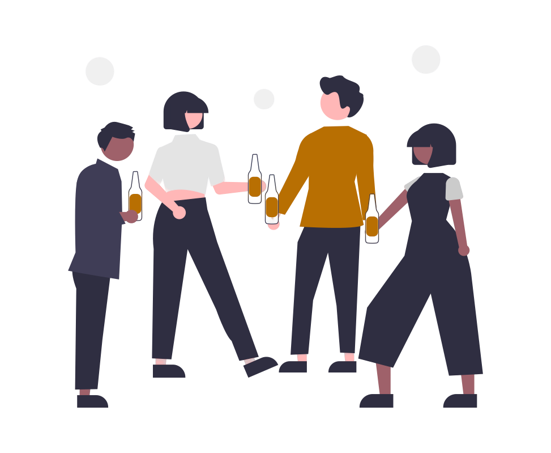
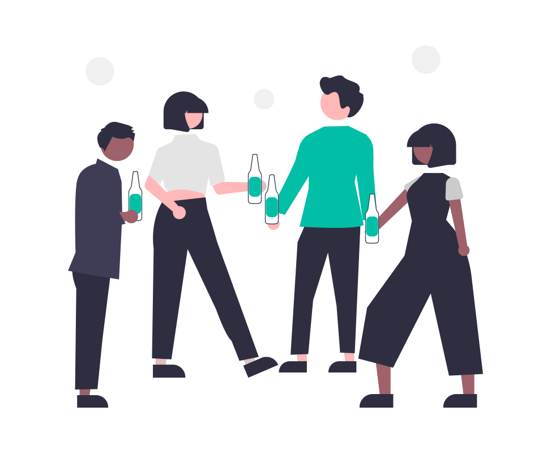
Modify LoginPage and add SignUp Page

Changed region(s): [[0.4319, 0.2781, 0.7096, 0.5254], [0.216, 0.4327, 0.2777, 0.4636]]

diff --git a/lib/SignUp Page/signup_page.dart b/lib/SignUp Page/signup_page.dart
@@ -1,14 +1,14 @@
 import 'package:flutter/material.dart';
 import 'package:playstation/Materials/material_app.dart';
 
-class LogInPage extends StatelessWidget {
-  const LogInPage({Key? key}) : super(key: key);
+class SignUpPage extends StatelessWidget {
+  const SignUpPage({Key? key}) : super(key: key);
 
   @override
   Widget build(BuildContext context) {
     return Scaffold(
       appBar: PreferredSize(
-        preferredSize: const Size.fromHeight(200),
+        preferredSize: const Size.fromHeight(150),
         child: AppBar(
           backgroundColor: Colors.transparent,
           shadowColor: Colors.transparent,
@@ -19,8 +19,8 @@ class LogInPage extends StatelessWidget {
               children: [
                 Image.asset(
                   "assets/logo/logo.png",
-                  width: 150,
-                  height: 150,
+                  width: 100,
+                  height: 100,
                 ),
                 Text(
                   "Kazablanka PS",
@@ -44,7 +44,8 @@ class LogInPage extends StatelessWidget {
         ),
       ),
       body: Container(
-        margin: EdgeInsets.symmetric(horizontal: 15),
+        margin: EdgeInsets.symmetric(horizontal: 7.5),
+        padding: EdgeInsets.symmetric(horizontal: 15),
         child: SingleChildScrollView(
           child: Column(
             mainAxisAlignment: MainAxisAlignment.center,
@@ -52,15 +53,41 @@ class LogInPage extends StatelessWidget {
               const Align(
                   alignment: Alignment.centerLeft,
                   child: Text(
-                    "LogIn",
+                    "SignUp",
                     style: MaterialPSApp.titleFontB,
                   )),
               Container(
+                margin: EdgeInsets.symmetric(vertical: 7.5),
                 height: 40,
-                margin: EdgeInsets.symmetric(vertical: 15),
                 child: TextFormField(
                   decoration: const InputDecoration(
                     icon: Icon(Icons.person),
+                    border: OutlineInputBorder(),
+                    labelText: 'First Name:',
+                  ),
+                  autofocus: true,
+                  keyboardType: TextInputType.name,
+                ),
+              ),
+              Container(
+                margin: EdgeInsets.symmetric(vertical: 7.5),
+                height: 40,
+                child: TextFormField(
+                  decoration: const InputDecoration(
+                    icon: Icon(Icons.person),
+                    border: OutlineInputBorder(),
+                    labelText: 'Last Name:',
+                  ),
+                  autofocus: true,
+                  keyboardType: TextInputType.name,
+                ),
+              ),
+              Container(
+                margin: EdgeInsets.symmetric(vertical: 7.5),
+                height: 40,
+                child: TextFormField(
+                  decoration: const InputDecoration(
+                    icon: Icon(Icons.email),
                     border: OutlineInputBorder(),
                     labelText: 'Enter your email:',
                   ),
@@ -69,6 +96,20 @@ class LogInPage extends StatelessWidget {
                 ),
               ),
               Container(
+                margin: EdgeInsets.symmetric(vertical: 7.5),
+                height: 40,
+                child: TextFormField(
+                  decoration: const InputDecoration(
+                    icon: Icon(Icons.phone),
+                    border: OutlineInputBorder(),
+                    labelText: 'Enter your Mobile Number:',
+                  ),
+                  autofocus: true,
+                  keyboardType: TextInputType.number,
+                ),
+              ),
+              Container(
+                margin: EdgeInsets.symmetric(vertical: 7.5),
                 height: 40,
                 child: TextFormField(
                   decoration: const InputDecoration(
@@ -82,14 +123,26 @@ class LogInPage extends StatelessWidget {
                 ),
               ),
               Container(
+                margin: EdgeInsets.symmetric(vertical: 7.5),
+                height: 40,
+                child: TextFormField(
+                  decoration: const InputDecoration(
+                    icon: Icon(Icons.security),
+                    border: OutlineInputBorder(),
+                    labelText: 'Confirm your Password',
+                  ),
+                  autofocus: true,
+                  keyboardType: TextInputType.visiblePassword,
+                  obscureText: true,
+                ),
+              ),
+              Container(
                 width: double.infinity,
                 margin: EdgeInsets.only(top: 20),
                 child: ElevatedButton(
-                  onPressed: () {
-                    Navigator.pushReplacementNamed(context, '/home-page');
-                  },
+                  onPressed: () {},
                   child: const Text(
-                    "LOGIN",
+                    "SUBMIT",
                     style: MaterialPSApp.buttonsFontW,
                   ),
                 ),
@@ -106,11 +159,9 @@ class LogInPage extends StatelessWidget {
                 Expanded(child: Divider(thickness: 2)),
               ]),
               TextButton(
-                  onPressed: () {
-                    Navigator.pushReplacementNamed(context, '/signup-page');
-                  },
+                  onPressed: () {Navigator.pushReplacementNamed(context, '/login-page');},
                   child: const Text(
-                    "Create new Account ?",
+                    "You have already Account ?",
                     style: TextStyle(
                       decoration: TextDecoration.underline,
                     ),

diff --git a/lib/main.dart b/lib/main.dart
@@ -2,7 +2,9 @@ import 'package:flutter/material.dart';
 
 import 'package:playstation/LogIn%20Page/login_page.dart';
 import 'package:playstation/Navigation%20Bar%20Pages/account.dart';
+import 'package:playstation/Navigation%20Bar%20Pages/home.dart';
 import 'package:playstation/PageView/page_view.dart';
+import 'package:playstation/SignUp%20Page/signup_page.dart';
 
 import 'Navigation Bar Pages/home_page.dart';
 
@@ -18,14 +20,18 @@ class MyApp extends StatelessWidget {
     return MaterialApp(
       title: 'Flutter Demo',
       theme: ThemeData(
-        primarySwatch: Colors.orange,
+        primarySwatch: Colors.teal,
       ),
       initialRoute: '/',
       routes: {
         // When navigating to the "/" route, build the FirstScreen widget.
-        '/': (context) => const HomePage(),
+        '/': (context) => const PageViewPS(),
         // When navigating to the "/second" route, build the SecondScreen widget.
         '/account': (context) => const AccountPage(),
+        '/home': (context) => const Home(),
+        '/login-page': (context) => const LogInPage(),
+        '/signup-page': (context) => const SignUpPage(),
+        '/home-page': (context) => const HomePage(),
       },
     );
   }

diff --git a/lib/Materials/material_app.dart b/lib/Materials/material_app.dart
@@ -5,8 +5,8 @@ import 'package:google_fonts/google_fonts.dart';
 
 class MaterialPSApp {
   //Colors
-  static const Color backgroundColor = Color.fromARGB(255, 19, 2, 46);
-  static const Color basicColor = Colors.orange;
+  static const Color backgroundColor = Color.fromARGB(255, 43, 41, 46);
+  static const Color basicColor = Color.fromARGB(255, 61, 216, 200);
   static const Color whiteColor = Colors.white;
 
   //Logo Image
@@ -16,12 +16,8 @@ class MaterialPSApp {
   static const IconData playstationIcon = MyFlutterApp.playstation;
 
   //TextStyle
-  static TextStyle logoFontO = GoogleFonts.actor(
-      textStyle: TextStyle(
-          fontSize: 20,
-          color: MaterialPSApp.basicColor,
-          decoration: TextDecoration.none,
-          fontFamily: "Arial Rounded Bold"));
+  static TextStyle logoFontO =
+      GoogleFonts.titanOne(fontSize: 20, color: MaterialPSApp.basicColor);
   static const TextStyle titleFontO = TextStyle(
       fontSize: 20,
       color: MaterialPSApp.basicColor,

diff --git a/lib/PageView/page_view.dart b/lib/PageView/page_view.dart
@@ -88,7 +88,9 @@ class _PageViewPSState extends State<PageViewPS> {
               width: double.infinity,
               padding: const EdgeInsets.symmetric(horizontal: 20),
               child: ElevatedButton(
-                  onPressed: () {},
+                  onPressed: () {
+                    Navigator.pushReplacementNamed(context, '/login-page');
+                  },
                   child: const Text(
                     "GET STARTED",
                     style: MaterialPSApp.buttonsFontW,
